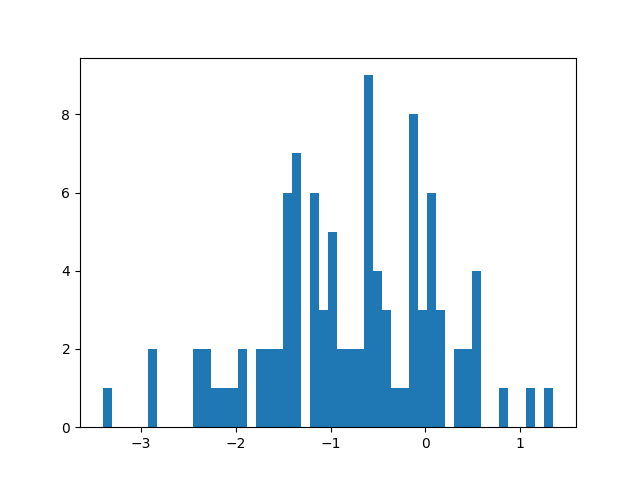
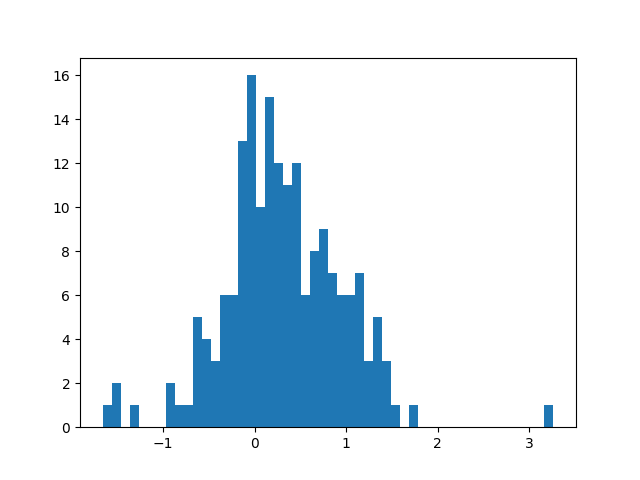
Ran detectgpt with gpt-neo-1.3b

diff --git a/main.py b/main.py
@@ -10,7 +10,6 @@ sent2 = "Hi tying to test out now the code"
 sent1b = "AsdKj hi, test"
 sent2b = 'asdkj hi test'
 
-dataset = load_from_disk("/jagupard25/scr0/wychow/EvadingDetectGPT/data")
 
 sample = "Sexhow railway station was a railway station built to serve the hamlet of Sexhow in North Yorkshire, England. The station was on the North Yorkshire and Cleveland's railway line between Essex and London, which opened in 1857."
 
@@ -32,10 +31,17 @@ data_ai = ["In a landmark decision, the government announces a nationwide initia
            "Renowned tech company releases an innovative AI-powered personal assistant, set to revolutionize daily tasks. The advanced system adapts to user preferences, streamlining schedules, and providing real-time information. Early reviews praise its intuitive interface and efficiency, marking a significant advancement in artificial intelligence applications for personal use.",
            "Amid rising concerns about cybersecurity, a major tech conglomerate unveils a state-of-the-art encryption system. The new technology promises enhanced protection for user data, making it significantly more challenging for unauthorized access. Industry experts applaud the development, anticipating it will set a new standard for digital security in an increasingly interconnected world."]
 
-from datasets import load_dataset
-dataset = load_dataset("aadityaubhat/GPT-wiki-intro", split="train[:100]")
-data_human = dataset["wiki_intro"]
-data_ai = dataset["generated_intro"]
+#from datasets import load_dataset
+#dataset = load_dataset("aadityaubhat/GPT-wiki-intro", split="train[:100]")
+#data_human = dataset["wiki_intro"]
+#data_ai = dataset["generated_intro"]
+
+
+
+dataset = load_from_disk("/scratch/users/ryanzhao/EvadingDetectGPT/data")
+data_human = dataset["document"]
+data_ai = dataset["generated"]
+
 res_human = get_score(data_human)
 # res_human = get_score(dataset["document"][:10])
 

diff --git a/globals.py b/globals.py
@@ -3,7 +3,8 @@ import torch
 
 ## CONFIGURATION
 mask_filling_model_name = "t5-large"
-base_model_name = "EleutherAI/gpt-neo-125m"
+# base_model_name = "EleutherAI/gpt-neo-125m"
+base_model_name = "EleutherAI/gpt-neo-1.3B"
 device = "cuda"
 # cache_dir = "~/.cache"
 int8 = False
@@ -14,6 +15,7 @@ batch_size = 50
 mask_top_p = 1.0
 
 n_perturbations = 10
+mask_pct = 0.2 # Default is 0.3
 
 API_TOKEN_COUNTER = 0
 

diff --git a/customDetectGPT.py b/customDetectGPT.py
@@ -144,7 +144,7 @@ def get_lls(texts):
     return pool.map(get_ll, texts)
 
 
-def get_perturbation_results(text, span_length=2, n_perturbations=100, n_perturbation_rounds=1, pct_words_masked=0.30):
+def get_perturbation_results(text, span_length=2, n_perturbations=100, n_perturbation_rounds=1, pct_words_masked=globals.mask_pct):
     load_mask_model()
 
     torch.manual_seed(0)
